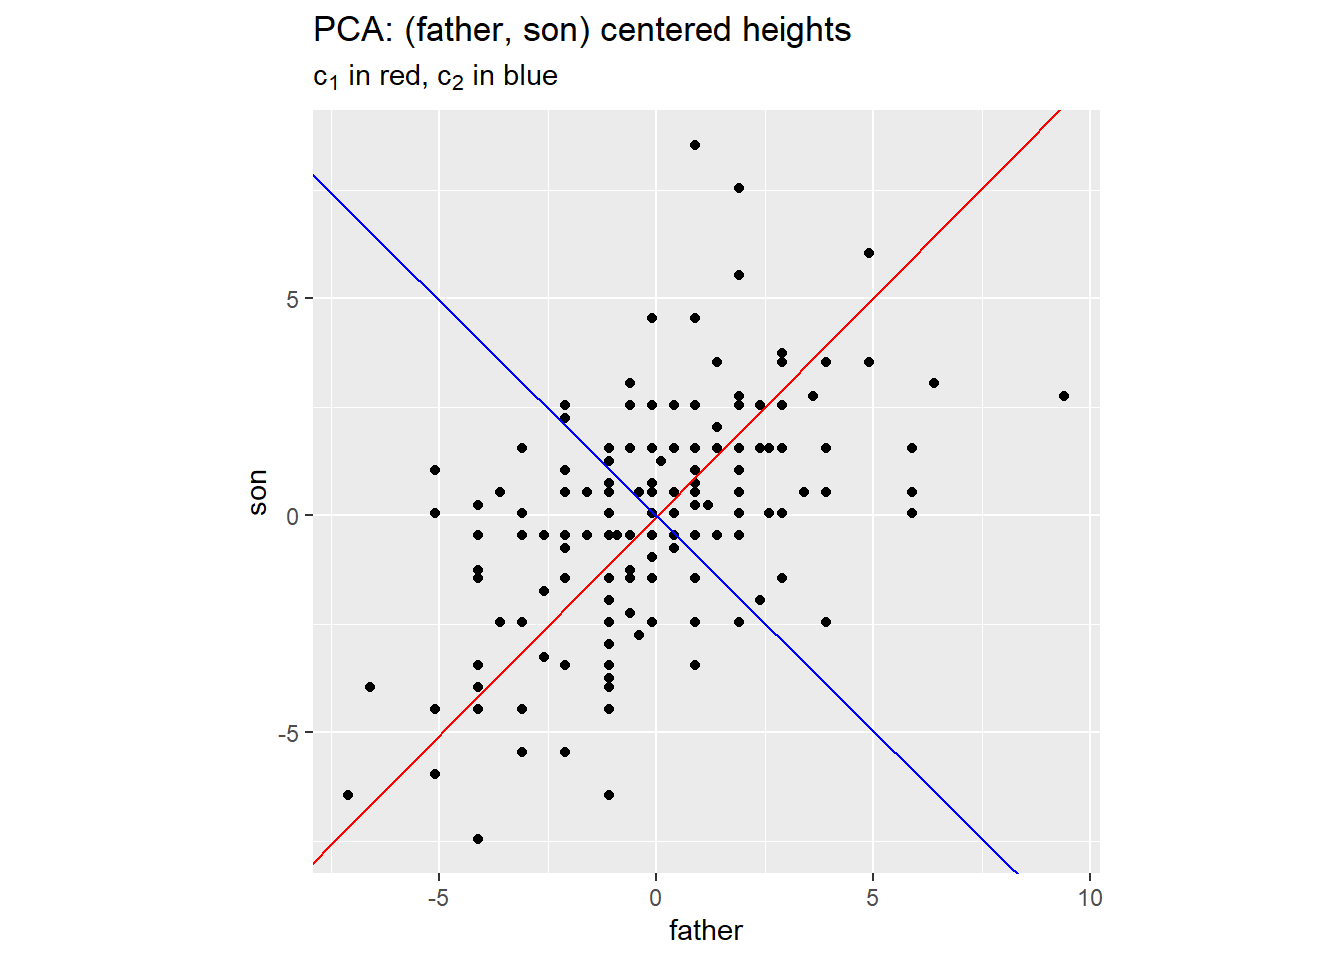
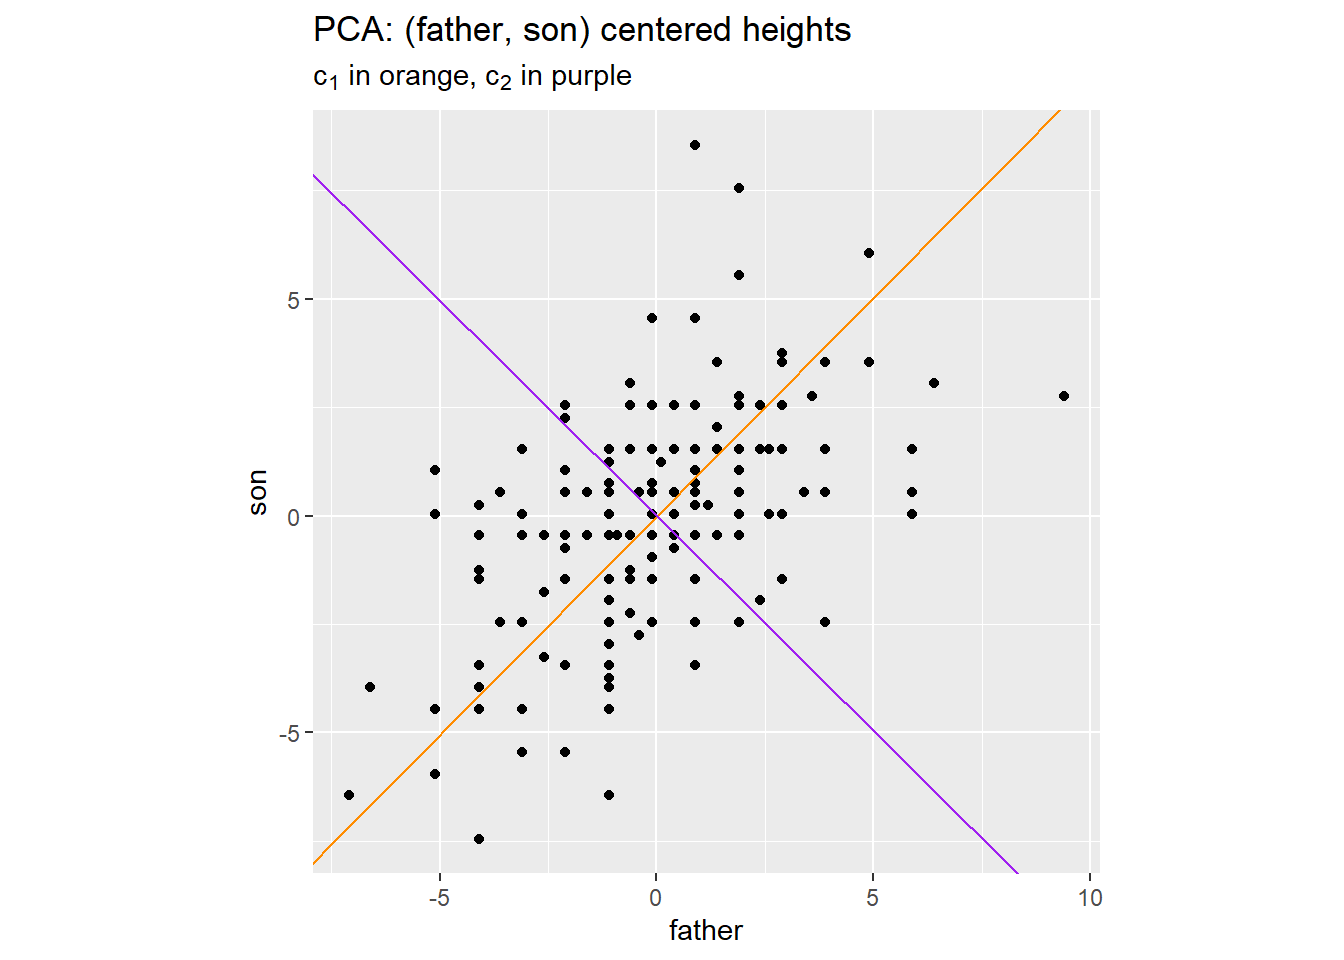
reduce-dim.qmd: (1) PCA > 2D Example: change color scheme.  (2) Appendix A > Matrix Decompositons: add 4th level headings to call out major concepts: polar decom of covariance matrix; principal components of the feature matrix; and SVD of the feature matrix.

Changed region(s): [[0.2812, 0.0625, 0.4688, 0.0938], [0.4688, 0.5312, 0.5, 0.5625], [0.4375, 0.4688, 0.4688, 0.5]]

diff --git a/_book/reduce-dim.html b/_book/reduce-dim.html
@@ -418,7 +418,7 @@ window.Quarto = {
     <div>
     <div class="quarto-title-meta-heading">Published</div>
     <div class="quarto-title-meta-contents">
-      <p class="date">05:50 Tue 11-Nov-2025</p>
+      <p class="date">10:14 Tue 11-Nov-2025</p>
     </div>
   </div>
   
@@ -618,8 +618,8 @@ Figure&nbsp;7.1: Violent Crime Rates per US State (1973)
 <div id="fig-arrests-3d-scatter" class="cell-output-display quarto-float quarto-figure quarto-figure-center anchored">
 <figure class="quarto-float quarto-float-fig figure">
 <div aria-describedby="fig-arrests-3d-scatter-caption-0ceaefa1-69ba-4598-a22c-09a6ac19f8ca">
-<div class="plotly html-widget html-fill-item" id="htmlwidget-eb6ca057c1a886dd2787" style="width:100%;height:464px;"></div>
-<script type="application/json" data-for="htmlwidget-eb6ca057c1a886dd2787">{"x":{"visdat":{"ac9c490271ec":["function () ","plotlyVisDat"]},"cur_data":"ac9c490271ec","attrs":{"ac9c490271ec":{"x":{},"y":{},"z":{},"mode":"markers","text":{},"marker":{"size":5,"color":{},"colorscale":"Viridis","showscale":true,"colorbar":{"title":"UrbanPop"}},"alpha_stroke":1,"sizes":[10,100],"spans":[1,20],"type":"scatter3d"}},"layout":{"margin":{"b":40,"l":60,"t":25,"r":10},"scene":{"xaxis":{"title":"Assault"},"yaxis":{"title":"Rape"},"zaxis":{"title":"Murder"}},"title":"Violent Crime Rates in each US State (1973)","hovermode":"closest","showlegend":false},"source":"A","config":{"modeBarButtonsToAdd":["hoverclosest","hovercompare"],"showSendToCloud":false},"data":[{"x":[236,263,294,190,276,204,110,238,335,211,46,120,249,113,56,115,109,249,83,300,149,255,72,259,178,109,102,252,57,159,285,254,337,45,120,151,159,106,174,279,86,188,201,120,48,156,145,81,53,161],"y":[21.199999999999999,44.5,31,19.5,40.600000000000001,38.700000000000003,11.1,15.800000000000001,31.899999999999999,25.800000000000001,20.199999999999999,14.199999999999999,24,21,11.300000000000001,18,16.300000000000001,22.199999999999999,7.7999999999999998,27.800000000000001,16.300000000000001,35.100000000000001,14.9,17.100000000000001,28.199999999999999,16.399999999999999,16.5,46,9.5,18.800000000000001,32.100000000000001,26.100000000000001,16.100000000000001,7.2999999999999998,21.399999999999999,20,29.300000000000001,14.9,8.3000000000000007,22.5,12.800000000000001,26.899999999999999,25.5,22.899999999999999,11.199999999999999,20.699999999999999,26.199999999999999,9.3000000000000007,10.800000000000001,15.6],"z":[13.199999999999999,10,8.0999999999999996,8.8000000000000007,9,7.9000000000000004,3.2999999999999998,5.9000000000000004,15.4,17.399999999999999,5.2999999999999998,2.6000000000000001,10.4,7.2000000000000002,2.2000000000000002,6,9.6999999999999993,15.4,2.1000000000000001,11.300000000000001,4.4000000000000004,12.1,2.7000000000000002,16.100000000000001,9,6,4.2999999999999998,12.199999999999999,2.1000000000000001,7.4000000000000004,11.4,11.1,13,0.80000000000000004,7.2999999999999998,6.5999999999999996,4.9000000000000004,6.2999999999999998,3.3999999999999999,14.4,3.7999999999999998,13.199999999999999,12.699999999999999,3.2000000000000002,2.2000000000000002,8.5,4,5.7000000000000002,2.6000000000000001,6.7999999999999998],"mode":"markers","text":["AL","AK","AZ","AR","CA","CO","CT","DE","FL","GA","HI","ID","IL","IN","IA","KS","KY","LA","ME","MD","MA","MI","MN","MS","MO","MT","NE","NV","NH","NJ","NM","NY","NC","ND","OH","OK","OR","PA","RI","SC","SD","TN","TX","UT","VT","VA","WA","WV","WI","WY"],"marker":{"color":[58,48,80,50,91,78.5,77,72,80.5,60,83,54,83,65,57,66,52,66,51,76.599999999999994,85,74,66,44.5,70,53,61.5,81,56,89,70,86,45,44,75,68,67,71.5,87,48,45,59,80,80,32,63,73,39,66,60.5],"size":5,"colorscale":"Viridis","showscale":true,"colorbar":{"title":"UrbanPop"},"line":{"color":"rgba(31,119,180,1)"}},"type":"scatter3d","error_y":{"color":"rgba(31,119,180,1)"},"error_x":{"color":"rgba(31,119,180,1)"},"line":{"color":"rgba(31,119,180,1)"},"frame":null}],"highlight":{"on":"plotly_click","persistent":false,"dynamic":false,"selectize":false,"opacityDim":0.20000000000000001,"selected":{"opacity":1},"debounce":0},"shinyEvents":["plotly_hover","plotly_click","plotly_selected","plotly_relayout","plotly_brushed","plotly_brushing","plotly_clickannotation","plotly_doubleclick","plotly_deselect","plotly_afterplot","plotly_sunburstclick"],"base_url":"https://plot.ly"},"evals":[],"jsHooks":[]}</script>
+<div class="plotly html-widget html-fill-item" id="htmlwidget-434545c9be6ed594382a" style="width:100%;height:464px;"></div>
+<script type="application/json" data-for="htmlwidget-434545c9be6ed594382a">{"x":{"visdat":{"9a801008ea":["function () ","plotlyVisDat"]},"cur_data":"9a801008ea","attrs":{"9a801008ea":{"x":{},"y":{},"z":{},"mode":"markers","text":{},"marker":{"size":5,"color":{},"colorscale":"Viridis","showscale":true,"colorbar":{"title":"UrbanPop"}},"alpha_stroke":1,"sizes":[10,100],"spans":[1,20],"type":"scatter3d"}},"layout":{"margin":{"b":40,"l":60,"t":25,"r":10},"scene":{"xaxis":{"title":"Assault"},"yaxis":{"title":"Rape"},"zaxis":{"title":"Murder"}},"title":"Violent Crime Rates in each US State (1973)","hovermode":"closest","showlegend":false},"source":"A","config":{"modeBarButtonsToAdd":["hoverclosest","hovercompare"],"showSendToCloud":false},"data":[{"x":[236,263,294,190,276,204,110,238,335,211,46,120,249,113,56,115,109,249,83,300,149,255,72,259,178,109,102,252,57,159,285,254,337,45,120,151,159,106,174,279,86,188,201,120,48,156,145,81,53,161],"y":[21.199999999999999,44.5,31,19.5,40.600000000000001,38.700000000000003,11.1,15.800000000000001,31.899999999999999,25.800000000000001,20.199999999999999,14.199999999999999,24,21,11.300000000000001,18,16.300000000000001,22.199999999999999,7.7999999999999998,27.800000000000001,16.300000000000001,35.100000000000001,14.9,17.100000000000001,28.199999999999999,16.399999999999999,16.5,46,9.5,18.800000000000001,32.100000000000001,26.100000000000001,16.100000000000001,7.2999999999999998,21.399999999999999,20,29.300000000000001,14.9,8.3000000000000007,22.5,12.800000000000001,26.899999999999999,25.5,22.899999999999999,11.199999999999999,20.699999999999999,26.199999999999999,9.3000000000000007,10.800000000000001,15.6],"z":[13.199999999999999,10,8.0999999999999996,8.8000000000000007,9,7.9000000000000004,3.2999999999999998,5.9000000000000004,15.4,17.399999999999999,5.2999999999999998,2.6000000000000001,10.4,7.2000000000000002,2.2000000000000002,6,9.6999999999999993,15.4,2.1000000000000001,11.300000000000001,4.4000000000000004,12.1,2.7000000000000002,16.100000000000001,9,6,4.2999999999999998,12.199999999999999,2.1000000000000001,7.4000000000000004,11.4,11.1,13,0.80000000000000004,7.2999999999999998,6.5999999999999996,4.9000000000000004,6.2999999999999998,3.3999999999999999,14.4,3.7999999999999998,13.199999999999999,12.699999999999999,3.2000000000000002,2.2000000000000002,8.5,4,5.7000000000000002,2.6000000000000001,6.7999999999999998],"mode":"markers","text":["AL","AK","AZ","AR","CA","CO","CT","DE","FL","GA","HI","ID","IL","IN","IA","KS","KY","LA","ME","MD","MA","MI","MN","MS","MO","MT","NE","NV","NH","NJ","NM","NY","NC","ND","OH","OK","OR","PA","RI","SC","SD","TN","TX","UT","VT","VA","WA","WV","WI","WY"],"marker":{"color":[58,48,80,50,91,78.5,77,72,80.5,60,83,54,83,65,57,66,52,66,51,76.599999999999994,85,74,66,44.5,70,53,61.5,81,56,89,70,86,45,44,75,68,67,71.5,87,48,45,59,80,80,32,63,73,39,66,60.5],"size":5,"colorscale":"Viridis","showscale":true,"colorbar":{"title":"UrbanPop"},"line":{"color":"rgba(31,119,180,1)"}},"type":"scatter3d","error_y":{"color":"rgba(31,119,180,1)"},"error_x":{"color":"rgba(31,119,180,1)"},"line":{"color":"rgba(31,119,180,1)"},"frame":null}],"highlight":{"on":"plotly_click","persistent":false,"dynamic":false,"selectize":false,"opacityDim":0.20000000000000001,"selected":{"opacity":1},"debounce":0},"shinyEvents":["plotly_hover","plotly_click","plotly_selected","plotly_relayout","plotly_brushed","plotly_brushing","plotly_clickannotation","plotly_doubleclick","plotly_deselect","plotly_afterplot","plotly_sunburstclick"],"base_url":"https://plot.ly"},"evals":[],"jsHooks":[]}</script>
 </div>
 <figcaption class="quarto-float-caption-bottom quarto-float-caption quarto-float-fig" id="fig-arrests-3d-scatter-caption-0ceaefa1-69ba-4598-a22c-09a6ac19f8ca">
 Figure&nbsp;7.2: Violent Crime Rates in each US State (1973)
@@ -917,8 +917,8 @@ Figure&nbsp;7.6: Principal Components: (father, son) centered heights
 </div>
 </div>
 </div>
-<p>The figure represents two principal components, <span class="math inline">\((c_1, c_2)\)</span>, as respective red and blue lines, which are perpendicular to one another.</p>
-<p>The red line <span class="math inline">\((c_1)\)</span> points in the direction where the data varies most. Projecting points onto this line captures the maximum possible variance in a single dimension. The blue line <span class="math inline">\((c_2)\)</span> is perpendicular to <span class="math inline">\(c_1\)</span> and captures the maximum remaining variance. Together, they form a rotated coordinate system that aligns with the data’s natural variation.</p>
+<p>The figure represents two principal components, <span class="math inline">\((c_1, c_2)\)</span>, as respective orange and purple lines, which are perpendicular to one another.</p>
+<p>The orange line <span class="math inline">\((c_1)\)</span> points in the direction where the data varies most. Projecting points onto this line captures the maximum possible variance in a single dimension. The purple line <span class="math inline">\((c_2)\)</span> is perpendicular to <span class="math inline">\(c_1\)</span> and captures the maximum remaining variance. Together, they form a rotated coordinate system that aligns with the data’s natural variation.</p>
 </section>
 </section>
 <section id="sec-dim-r-supervised" class="level2" data-number="7.4">
@@ -1291,6 +1291,8 @@ Figure&nbsp;7.6: Principal Components: (father, son) centered heights
 </section>
 <section id="matrix-decompositions" class="level3" data-number="7.10.4">
 <h3 data-number="7.10.4" class="anchored" data-anchor-id="matrix-decompositions"><span class="header-section-number">7.10.4</span> Matrix decompositions</h3>
+<section id="covariance-matrix-polar-decomposition" class="level4" data-number="7.10.4.1">
+<h4 data-number="7.10.4.1" class="anchored" data-anchor-id="covariance-matrix-polar-decomposition"><span class="header-section-number">7.10.4.1</span> Covariance Matrix: Polar Decomposition</h4>
 <p>In the previous section we reconstructed rows of the feature matrix <span class="math inline">\(X_{\bullet, \bullet}\)</span> using a sequence of orthogonal projections <span class="math inline">\(v_{\bullet, \eta} \; v_{\bullet, \eta}^\top\)</span>. This development gave us a partial eigen-decomposition of the <span class="math inline">\(d \times d\)</span> matrix <span class="math inline">\(X_{\bullet, \bullet}^\top \; X_{\bullet, \bullet}\)</span>, the scaled feature covariance matrix. With <span class="math inline">\(r = rank(X_{\bullet, \bullet})\)</span>, and for <span class="math inline">\(\eta \in \{1, \ldots, r\}\)</span> the <span class="math inline">\(d-\)</span>dimensional vector <span class="math inline">\(v_{\bullet, \eta}\)</span> is an eigenvector of <span class="math inline">\(X_{\bullet, \bullet}^\top \; X_{\bullet, \bullet}\)</span>, having corresponding eigenvalue <span class="math inline">\(\sigma_\eta^2\)</span>, indexed in descending magnitude. In matrix notation we have:</p>
 <p><span id="eq-cov-partial-eigen-decomp"><span class="math display">\[
 \begin{align}
@@ -1362,7 +1364,10 @@ Figure&nbsp;7.6: Principal Components: (father, son) centered heights
     V^\top
 \end{align}
 \qquad(7.18)\]</span></span></p>
-<p>We now define <span class="math inline">\((c_{\bullet, 1}, \ldots, c_{\bullet, r})\)</span>, the <em>principal components</em> of <span class="math inline">\(X_{\bullet, \bullet}\)</span>, as the following respective linear combinations of the columns of <span class="math inline">\(X_{\bullet, \bullet}\)</span>.</p>
+</section>
+<section id="principal-components-of-the-feature-matrix" class="level4" data-number="7.10.4.2">
+<h4 data-number="7.10.4.2" class="anchored" data-anchor-id="principal-components-of-the-feature-matrix"><span class="header-section-number">7.10.4.2</span> Principal Components of the Feature Matrix</h4>
+<p>We now define <span class="math inline">\((c_{\bullet, 1}, \ldots, c_{\bullet, r})\)</span>, the <em>principal components</em> of <span class="math inline">\(X_{\bullet, \bullet}\)</span>, as the following respective linear combinations of the columns of <span class="math inline">\(X_{\bullet, \bullet}\)</span>.<a href="#fn11" class="footnote-ref" id="fnref11" role="doc-noteref"><sup>11</sup></a></p>
 <p><span id="eq-pc-defn-1"><span class="math display">\[
 \begin{align}
   c_{\bullet, \eta}
@@ -1417,6 +1422,9 @@ Figure&nbsp;7.6: Principal Components: (father, son) centered heights
     \end{cases}
 \end{align}
 \qquad(7.20)\]</span></span></p>
+</section>
+<section id="svd-of-the-feature-matrix" class="level4" data-number="7.10.4.3">
+<h4 data-number="7.10.4.3" class="anchored" data-anchor-id="svd-of-the-feature-matrix"><span class="header-section-number">7.10.4.3</span> SVD of the Feature Matrix</h4>
 <p>Dividing <span class="math inline">\(c_{\bullet, \eta}\)</span> by its magnitude <span class="math inline">\(\sigma_\eta\)</span>, we obtain a unit vector <span class="math inline">\(u_{\bullet, \eta}\)</span> that represents the direction of <span class="math inline">\(c_{\bullet, \eta}\)</span>.</p>
 <p><span id="eq-u-equals-pc-normalized"><span class="math display">\[
 \begin{align}
@@ -1548,6 +1556,7 @@ Ross, Douglas T, Uwe Scherf, Michael B Eisen, Charles M Perou, Christian Rees, P
 </div>
 </section>
 </section>
+</section>
 <section id="footnotes" class="footnotes footnotes-end-of-document" role="doc-endnotes">
 <hr>
 <ol>
@@ -1561,6 +1570,7 @@ Ross, Douglas T, Uwe Scherf, Michael B Eisen, Charles M Perou, Christian Rees, P
 <li id="fn8"><p>Among the notations for the inner product (scalar product) of vectors <span class="math inline">\(x, y\)</span> belonging to the same Euclidean space are: (1) <span class="math inline">\(\left &lt; x, y \right&gt;\)</span>; and (2) <span class="math inline">\(x^\top \; y\)</span>. The latter conforms to the notation of matrix multiplication if <span class="math inline">\(x\)</span> and <span class="math inline">\(y\)</span> are column vectors, and this is the tacit assumption without other information to the contrary. Ambiguity may occur when at least one of <span class="math inline">\(x, y\)</span> is a row or a column of some matrix. For example, if <span class="math inline">\(x\)</span> is a row vector and <span class="math inline">\(y\)</span> is a column vector, then the inner product of <span class="math inline">\(x, y\)</span> should be written either as <span class="math inline">\(\left &lt; x, y \right&gt;\)</span> or else as <span class="math inline">\(x \; y\)</span> according to matrix notation.<a href="#fnref8" class="footnote-back" role="doc-backlink">↩</a></p></li>
 <li id="fn9"><p>We use the property of orthogonal projection <span class="math inline">\(P\)</span> that: <span class="math inline">\(\left &lt; x, P \; x \right &gt; = \left &lt; x, P^2 \; x \right &gt; = \left &lt; P \; x, P \; x \right &gt; = \lVert P \; x \rVert^2\)</span>.<a href="#fnref9" class="footnote-back" role="doc-backlink">↩</a></p></li>
 <li id="fn10"><p>Note that <span class="math inline">\(x_{i, \bullet} \in \mathbb{R}^d\)</span> is a row vector, namely the <span class="math inline">\(i^{th}\)</span> row of feature matrix <span class="math inline">\(X_{\bullet, \bullet}\)</span>. Therefore the inner product <span class="math inline">\(\left &lt; x_{i, \bullet}, \; P \; x_{i, \bullet} \right &gt;\)</span> is expressed as <span class="math inline">\(x_{i, \bullet} \; P \; x_{i, \bullet}^\top\)</span> in matrix multiplication notation.<a href="#fnref10" class="footnote-back" role="doc-backlink">↩</a></p></li>
+<li id="fn11"><p>Here we define “principal component” to mean <span class="math inline">\(X_{\bullet, \bullet} \; v_{\bullet, \eta}\)</span>, the linear combination of feature vectors. Other authors identify the coefficient vector <span class="math inline">\(v_{\bullet, \eta}\)</span> as the “principal component”.<a href="#fnref11" class="footnote-back" role="doc-backlink">↩</a></p></li>
 </ol>
 </section>
 

diff --git a/_book/la-intro.html b/_book/la-intro.html
@@ -59,10 +59,10 @@ div.csl-indent {
 <script src="site_libs/quarto-html/tippy.umd.min.js"></script>
 <script src="site_libs/quarto-html/anchor.min.js"></script>
 <link href="site_libs/quarto-html/tippy.css" rel="stylesheet">
-<link href="site_libs/quarto-html/quarto-syntax-highlighting-37eea08aefeeee20ff55810ff984fec1.css" rel="stylesheet" id="quarto-text-highlighting-styles">
+<link href="site_libs/quarto-html/quarto-syntax-highlighting-dark-2fef5ea3f8957b3e4ecc936fc74692ca.css" rel="stylesheet" id="quarto-text-highlighting-styles">
 <script src="site_libs/bootstrap/bootstrap.min.js"></script>
 <link href="site_libs/bootstrap/bootstrap-icons.css" rel="stylesheet">
-<link href="site_libs/bootstrap/bootstrap-364982630eef5352dd1537128a8ed5cb.min.css" rel="stylesheet" append-hash="true" id="quarto-bootstrap" data-mode="light">
+<link href="site_libs/bootstrap/bootstrap-133c58409b7dc85f2ab3edd4502409fb.min.css" rel="stylesheet" append-hash="true" id="quarto-bootstrap" data-mode="dark">
 <script id="quarto-search-options" type="application/json">{
   "location": "sidebar",
   "copy-button": false,
